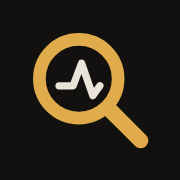
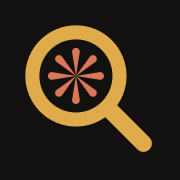
Site: put a Claude-style spark inside the magnifying glass (#1)
* Site: put a Claude-style spark inside the magnifying glass

Replaces the EKG pulse line in the lens with eight tapered rays in
#D97757, the terracotta already used on the site for the compaction
marker. The ring and handle keep their gold. The lens grows from r14 to
r15.5 so the rays hold their gaps down to about 20px; below that the
mark closes into a smudge, the same as the line it replaces.

favicon.svg is the source. The four rasters are rendered from it and
flattened onto #131110, matching the format the previous icons used, and
favicon.ico keeps its 16/32/48 PNG layers.

Site only: none of these files ship in the npm package, so there is no
version bump and no changelog entry, matching how every prior site
commit was handled.

Claude-Session: https://claude.ai/code/session_013xC9bpnz1FoAdNbdDgLJY5

* Give the dashboard a favicon

The tab at localhost:4310 showed the browser's blank default icon, which is
easy to lose among other tabs. Adds the mark via Next's app/icon.svg and
app/favicon.ico conventions, so Next serves them and emits the link tags
without any layout.tsx metadata.

Rendered from site/favicon.svg, which the header comment there already names
as the source of truth for the mark.

Folded into 0.2.1 rather than released separately, since it ships inside the
package and 0.2.1 is not yet published.

Claude-Session: https://claude.ai/code/session_015ehodMZja9dLYbto9YP3hN

---------

Changed region(s): [[0.1389, 0.1389, 0.7222, 0.7222], [0.5556, 0.5556, 0.8611, 0.8611]]

diff --git a/CHANGELOG.md b/CHANGELOG.md
@@ -17,6 +17,12 @@ All notable changes to ContextClues are documented here. This project follows
   Found by a new CI job that installs the published tarball on the declared floor and
   boots the server, rather than assuming the floor is whatever the manifest claims.
 
+### Added
+
+- The dashboard now has a favicon. Previously the tab at `localhost:4310` showed the
+  browser's blank default, which is easy to lose among other tabs. Served as SVG with
+  an `.ico` fallback for browsers that do not render SVG icons.
+
 ## 0.2.0 — 2026-09-01
 
 ### Security
